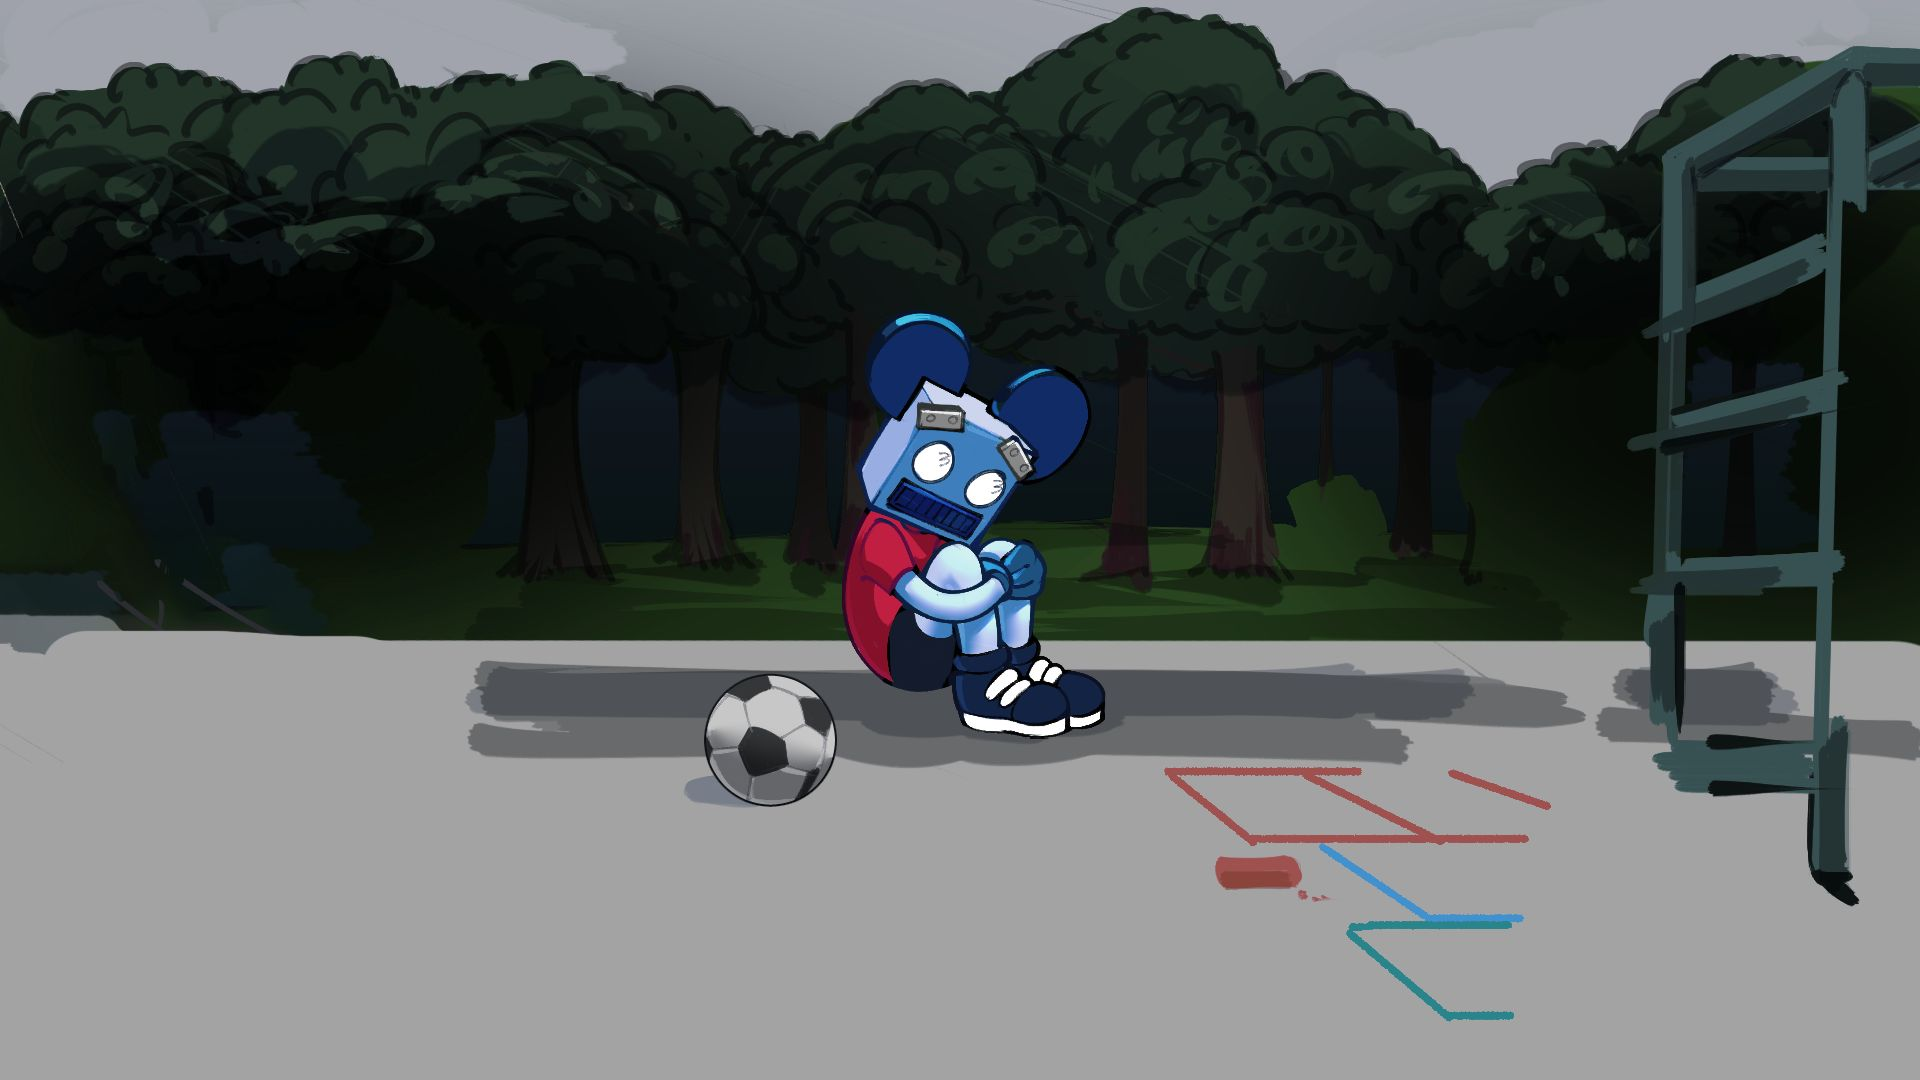
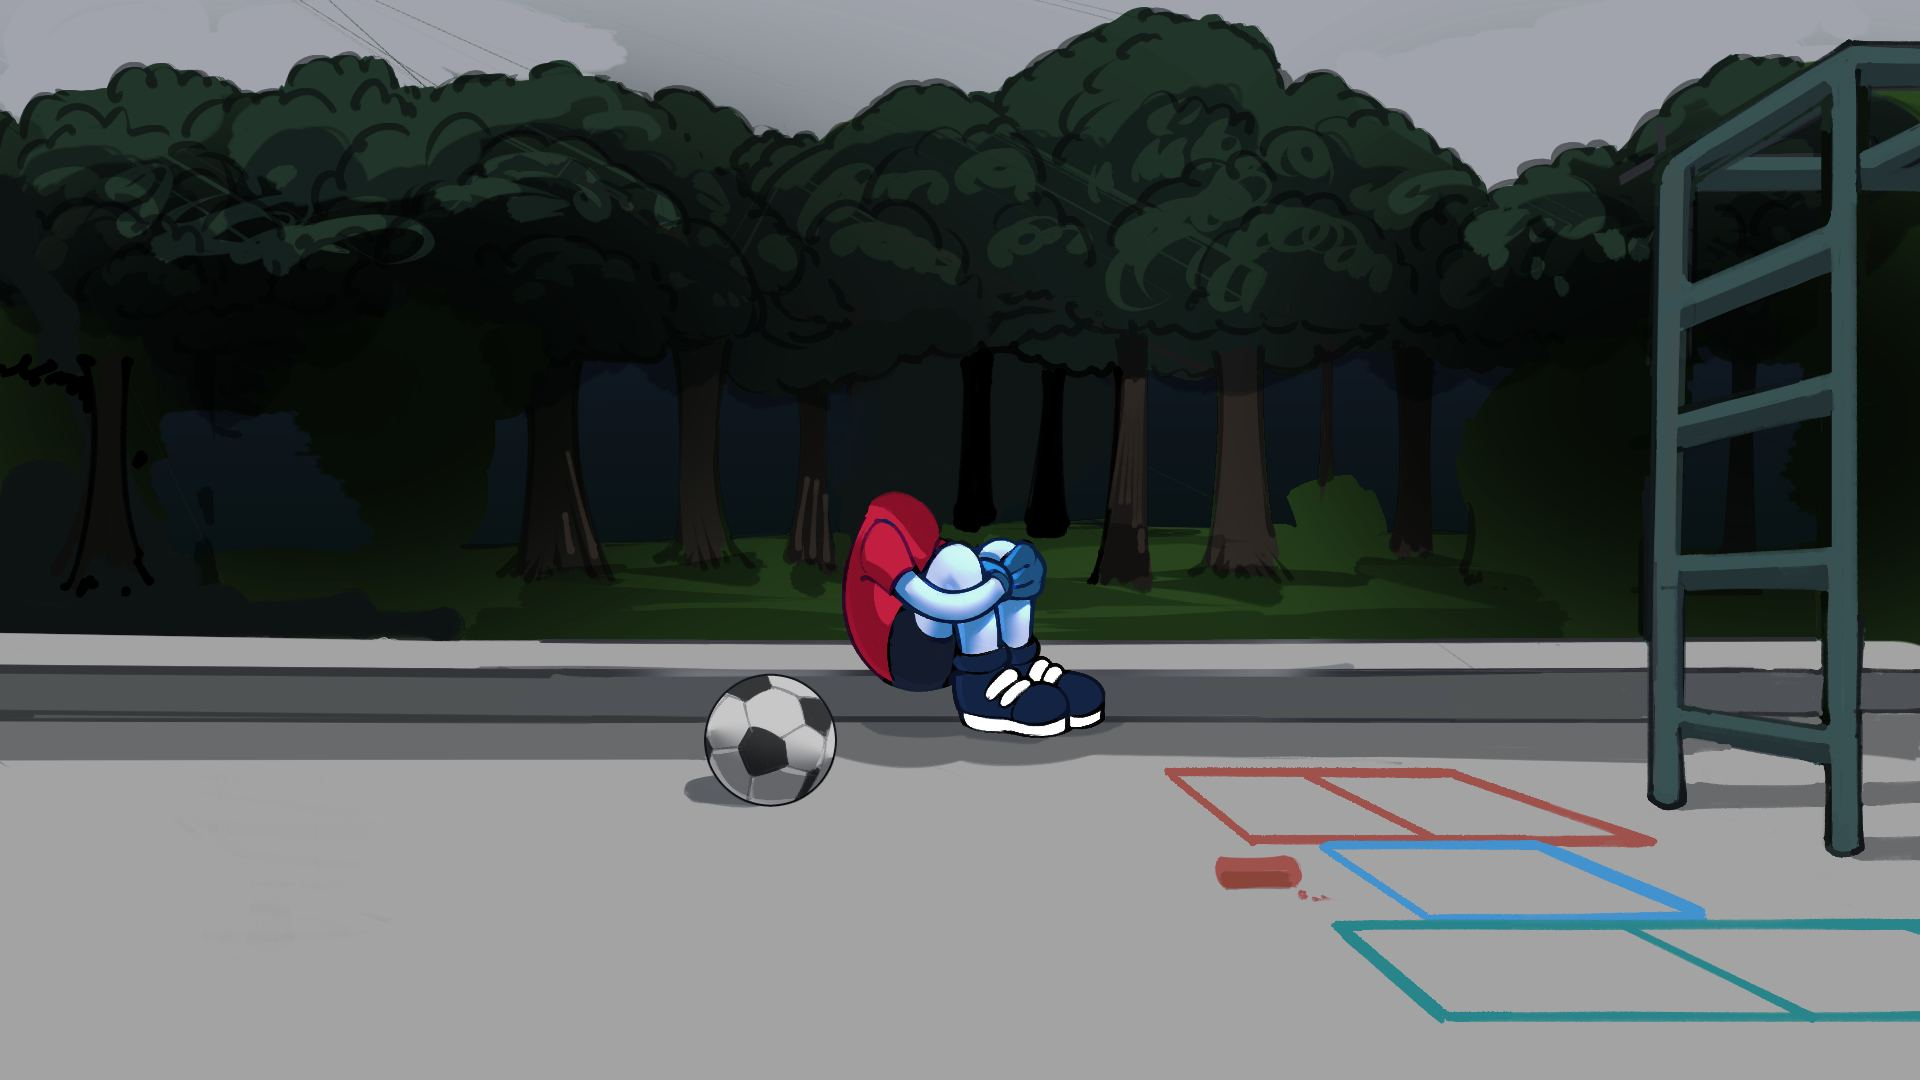
SYFT-960: scene 2 scroll driven animations + youssef comments

diff --git a/components/Scenes/Scene-2/index.js b/components/Scenes/Scene-2/index.js
@@ -11,12 +11,9 @@ const Scene2 = ({ transitionData }) => {
   const {
     currentStep,
     stepTwo,
-    stepThree,
     stepFour,
-    stepFive,
     stepSix,
-  } = UseTransitionStepper(transitionData, [1, 15, 30, 45, 60, 75, 100]);
-  console.log(currentStep);
+  } = UseTransitionStepper(transitionData, [1, 10, 20, 35, 65, 95, 100]);
 
   return (
     <MotionDiv transitionData={transitionData}>
@@ -35,11 +32,72 @@ const Scene2 = ({ transitionData }) => {
             loading="eager"
             quality={100}
           />
+          <img
+            src="/assets/images/scene2/4.png"
+            className={styles.head}
+            alt=""
+          />
         </div>
-        <div className={styles.peopleRight}>
+        <div
+          className={styles.peopleRight}
+          style={{
+            opacity:
+              currentStep === 4
+                ? `${stepFour / 100}`
+                : currentStep === 5
+                ? '1'
+                : currentStep === 6
+                ? `${(100 - stepSix) / 100}`
+                : '0',
+            height:
+              currentStep === 4
+                ? `${200 - stepFour}%`
+                : currentStep === 5
+                ? '100%'
+                : currentStep === 6
+                ? `${stepSix + 100}%`
+                : '0',
+            right:
+              currentStep === 4
+                ? `${-80 + 0.77 * stepFour}%`
+                : currentStep === 5
+                ? '-3%'
+                : currentStep === 6
+                ? `${-3 - 0.77 * stepSix}%`
+                : '-80%',
+          }}
+        >
           <img src="/assets/images/scene2/3.png" alt="" />
         </div>
-        <div className={styles.peopleLeft}>
+        <div
+          className={styles.peopleLeft}
+          style={{
+            opacity:
+              currentStep === 4
+                ? `${stepFour / 100}`
+                : currentStep === 5
+                ? '1'
+                : currentStep === 6
+                ? `${(100 - stepSix) / 100}`
+                : '0',
+            height:
+              currentStep === 4
+                ? `${200 - stepFour}%`
+                : currentStep === 5
+                ? '100%'
+                : currentStep === 6
+                ? `${stepSix + 100}%`
+                : '0',
+            left:
+              currentStep === 4
+                ? `${-80 + 0.77 * stepFour}%`
+                : currentStep === 5
+                ? '-3%'
+                : currentStep === 6
+                ? `${-3 - 0.77 * stepSix}%`
+                : '-80%',
+          }}
+        >
           <img src="/assets/images/scene2/2.png" alt="" />
         </div>
         <div className={styles.backdrop2}>
@@ -52,7 +110,17 @@ const Scene2 = ({ transitionData }) => {
             loading="eager"
           />
         </div>
-        <div className={styles.backdrop3}>
+        <div
+          className={styles.backdrop3}
+          style={{
+            opacity:
+              currentStep === 4
+                ? `${stepFour / 100}`
+                : currentStep > 4
+                ? '1'
+                : '0',
+          }}
+        >
           <Image
             src="/assets/images/scene2/over2.png"
             alt=""
@@ -94,7 +162,7 @@ const Scene2 = ({ transitionData }) => {
         <Text
           maxW="460"
           top="22%"
-          right="18%"
+          right="12%"
           className={styles.text2}
           style={{
             opacity:
@@ -110,8 +178,10 @@ const Scene2 = ({ transitionData }) => {
                 ? `translateX(-${stepFour}px)`
                 : currentStep === 5
                 ? 'translateX(-100px)'
-                : currentStep === 6 || currentStep === 7
-                ? 'translateX(-200px)'
+                : currentStep === 6
+                ? `translateX(${-100 - stepSix}px)`
+                : currentStep === 7
+                ? `translateX(-200px)`
                 : 'none',
           }}
         >

diff --git a/components/Scenes/Scene-2/index.module.scss b/components/Scenes/Scene-2/index.module.scss
@@ -17,41 +17,38 @@
     @include fullSize;
     @include bgCover;
   }
-  .backdrop3 {
-    opacity: 0;
+  .backdrop1 {
+    .head {
+      position: absolute;
+      height: 27%;
+      top: 38%;
+      left: 50.5%;
+      transform: translate(-50%, -50%);
+      transform-origin: left bottom;
+      animation-name: toggleHead;
+      animation-iteration-count: infinite;
+      animation-duration: 3s;
+    }
   }
   .peopleLeft,
   .peopleRight {
     position: absolute;
     bottom: -8%;
-    height: 200%;
-    opacity: 0;
 
     img {
       height: 100%;
     }
   }
-  .peopleLeft {
-    left: -80%;
-  }
-  .peopleRight {
-    right: -80%;
-  }
 }
 
-// .stepTwo {
-//   .backdrop3 {
-//     opacity: 1;
-//   }
-//   .peopleLeft,
-//   .peopleRight {
-//     height: 100%;
-//     opacity: 1;
-//   }
-//   .peopleLeft {
-//     left: -3%;
-//   }
-//   .peopleRight {
-//     right: -3%;
-//   }
-// }
+@keyframes toggleHead {
+  0% {
+    transform: translate(-50%, -50%);
+  }
+  50% {
+    transform: translate(-53%, -51%) rotate(4deg);
+  }
+  100% {
+    transform: translate(-50%, -50%);
+  }
+}

diff --git a/components/Scenes/index.js b/components/Scenes/index.js
@@ -60,10 +60,10 @@ const Scenes = () => {
       transitionSize={0.1}
       sections={[
         { id: 'intro', height: 2 },
-        { id: 'scene1', height: 3 },
-        { id: 'scene2', height: 3 },
-        { id: 'scene3', height: 1 },
-        { id: 'scene4', height: 2 },
+        { id: 'scene1', height: 4 },
+        { id: 'scene2', height: 4 },
+        { id: 'scene3', height: 2 },
+        { id: 'scene4', height: 3 },
         { id: 'scene5', height: 2 },
         { id: 'scene6', height: 2 },
         { id: 'scene7', height: 2 },
